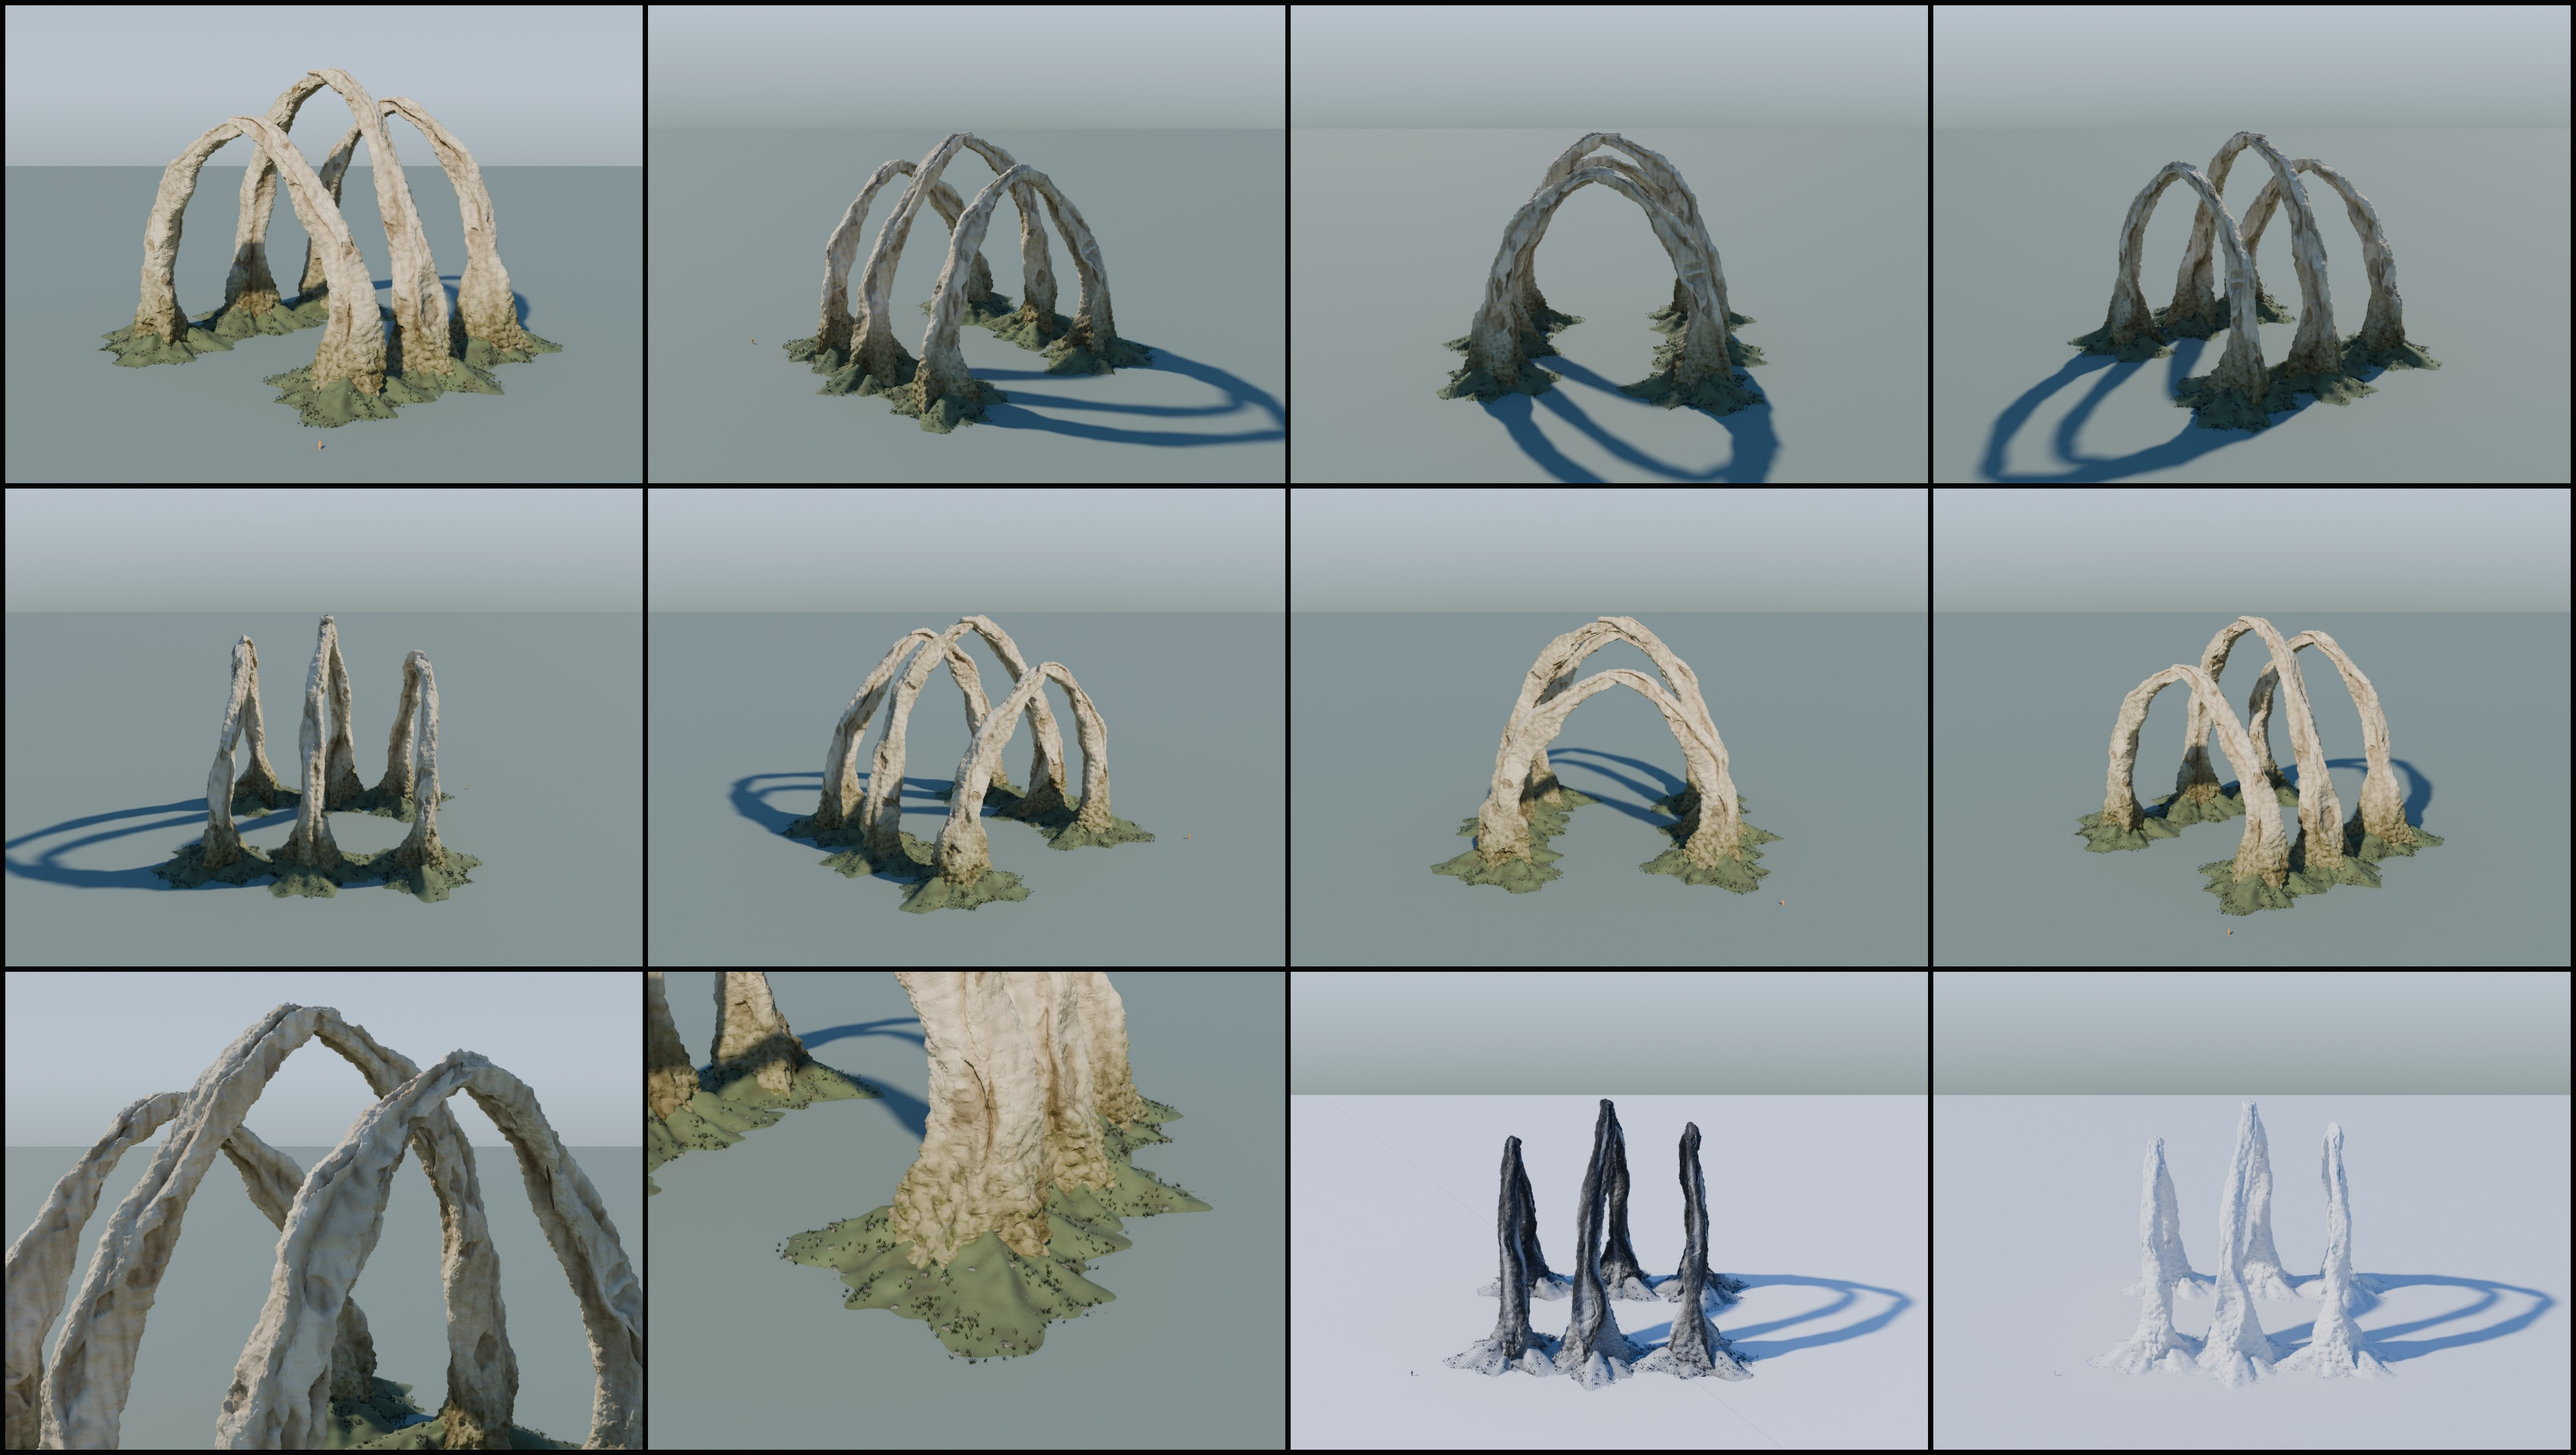
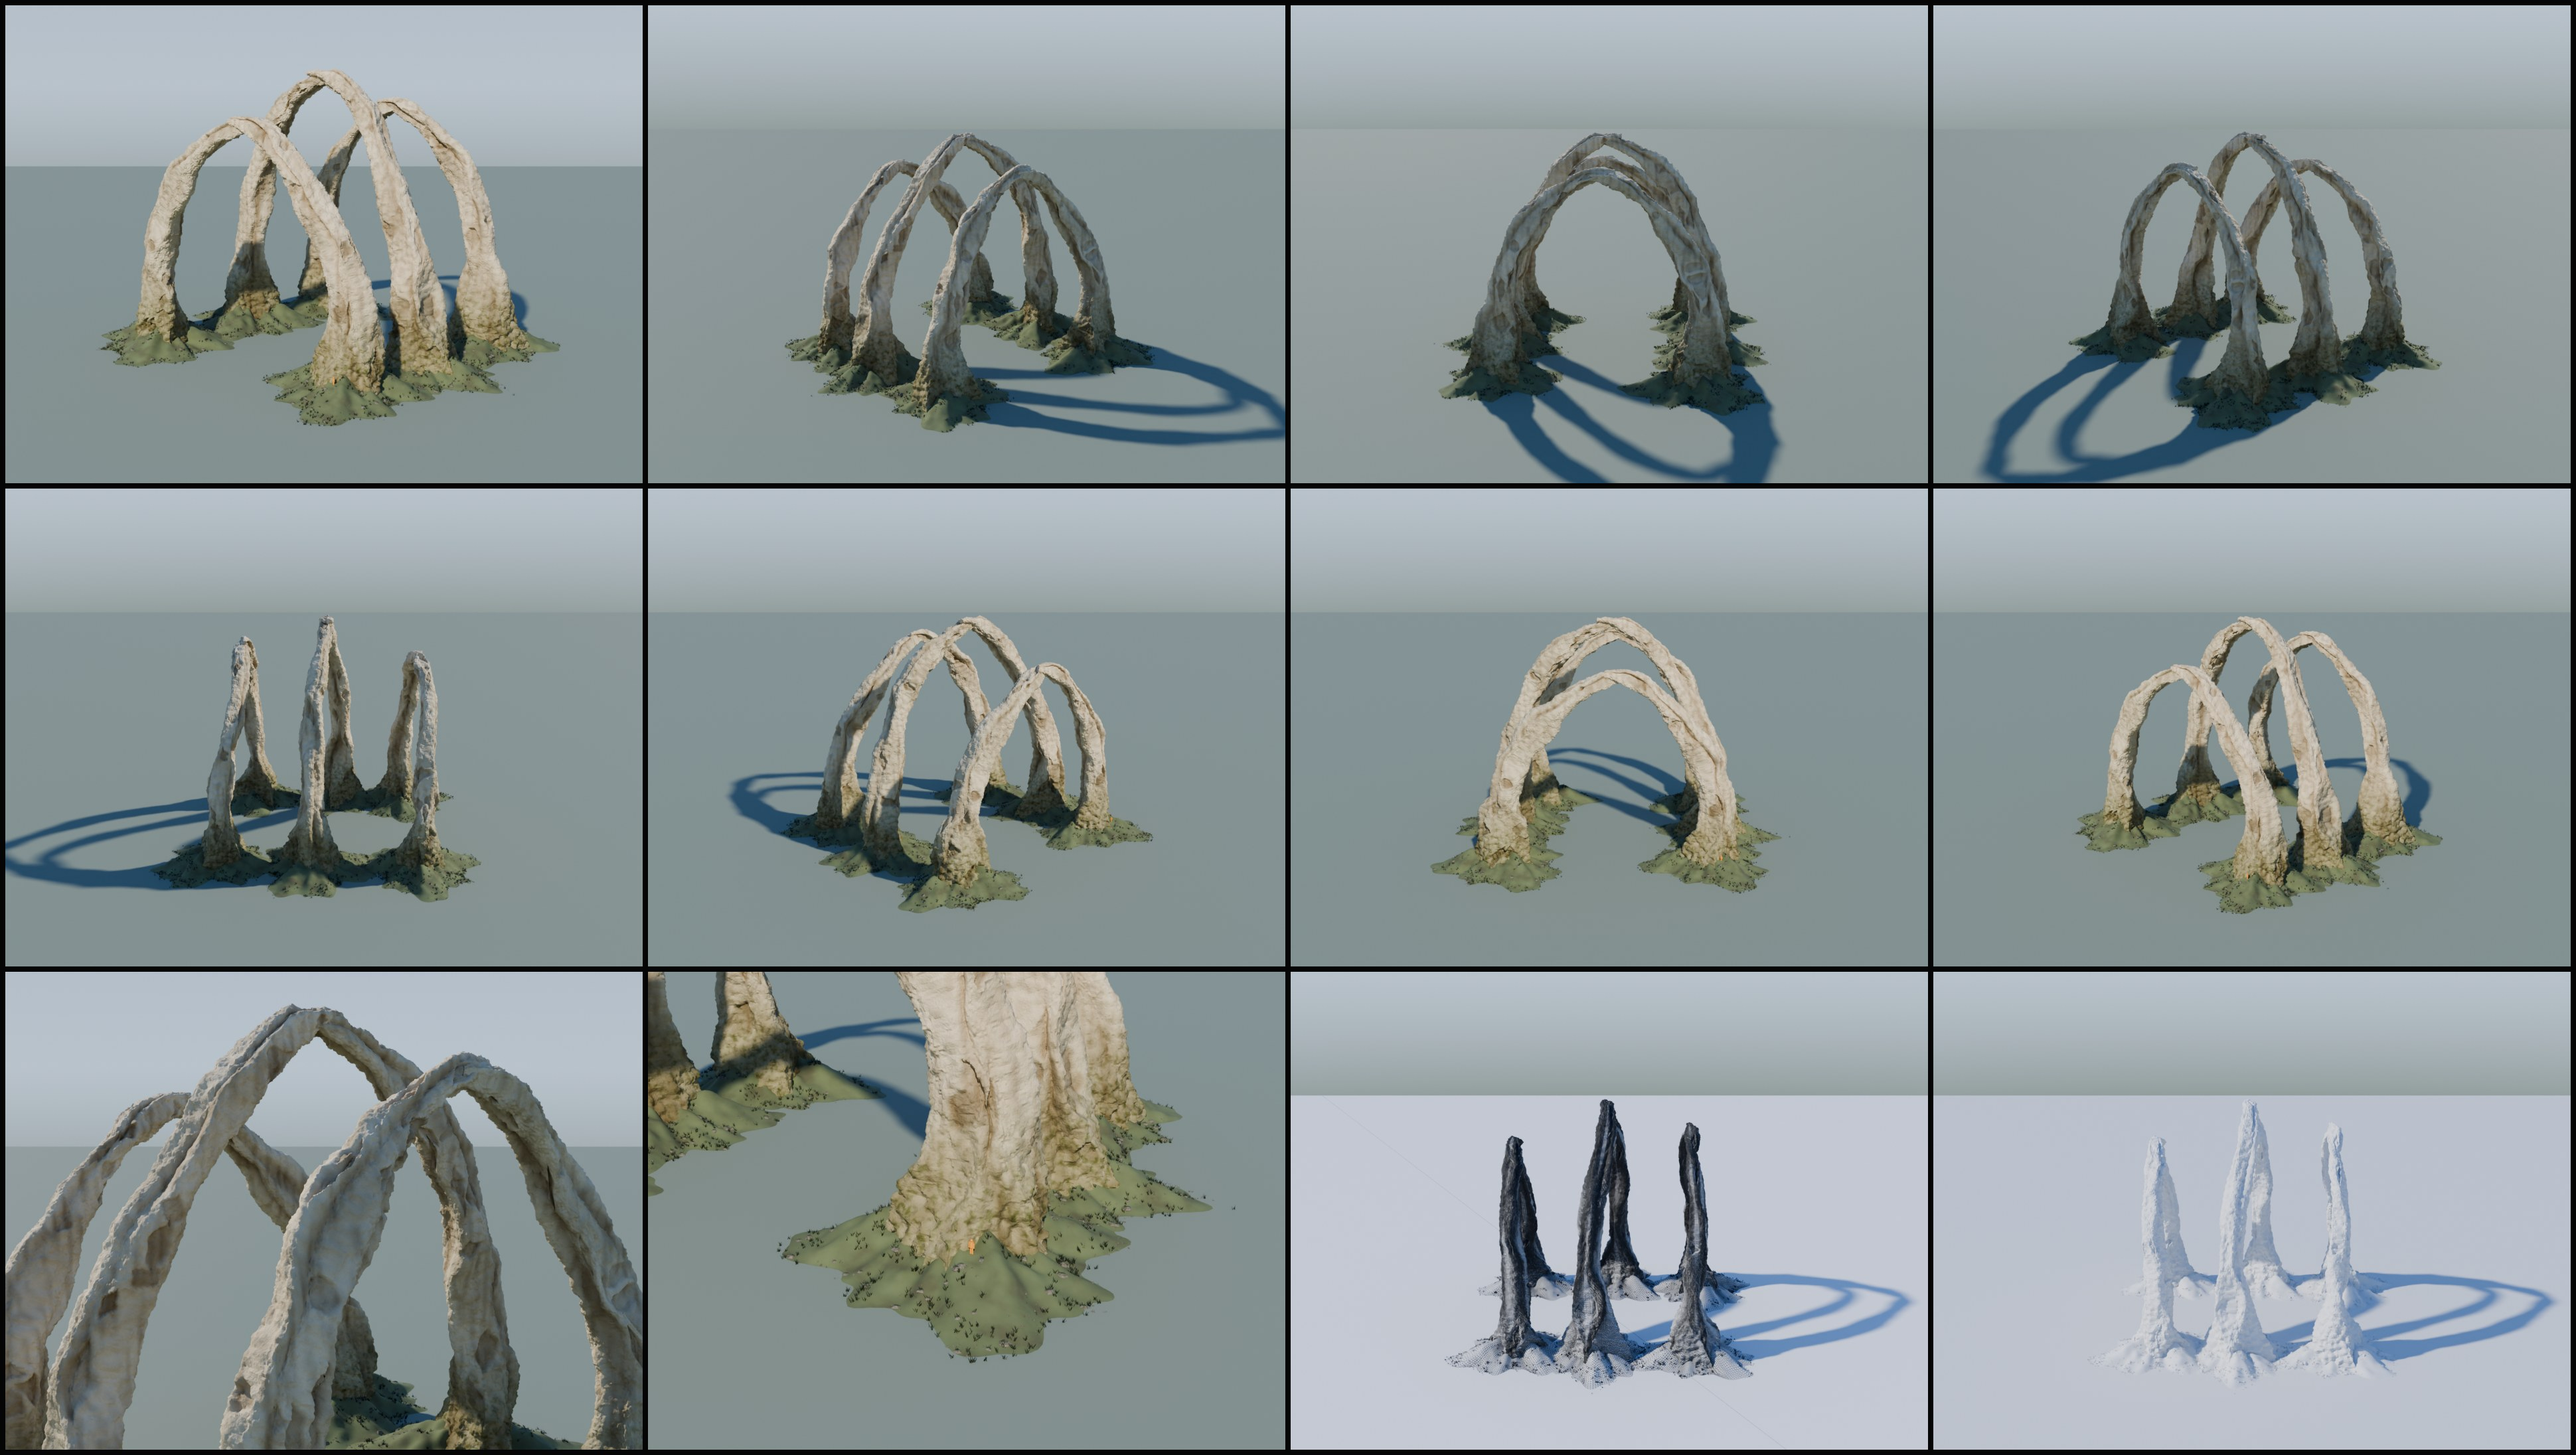
Ground rib scale figure on the foreground turf

diff --git a/assets/monuments/rib_arch_a/build.py b/assets/monuments/rib_arch_a/build.py
@@ -316,8 +316,8 @@ def apron(x, y, ax, ay, turf, root, rng):
     faces = [tuple(range(n))]
     faces.extend((i*n+j, (i+1)*n+j, (i+1)*n+(j+1)%n, i*n+(j+1)%n)
                  for i in range(len(rings)-1) for j in range(n))
-    mesh("Irregular root soil and turf", [p for row in rings for p in row], faces, turf,
-         solid=False, smooth=True)
+    ground = mesh("Irregular root soil and turf", [p for row in rings for p in row], faces, turf,
+                  solid=False, smooth=True)
     tree = BVHTree.FromPolygons([v.co for v in root.data.vertices],
                                 [p.vertices for p in root.data.polygons])
     rubble = vrmat.get("mossy_rock")
@@ -353,6 +353,7 @@ def apron(x, y, ax, ay, turf, root, rng):
     for (blades,faces), name, mat in zip(plants, ("Feathered bank grass","Moss on damp ledges"),
                                         ("foliage_leaf","mossy_rock")):
         mesh(name, blades, faces, vrmat.get(mat), solid=False)
+    return ground
 
 
 def center_footprint(objects):
@@ -383,16 +384,22 @@ def build():
             root = limb(part,spine,rng.uniform(6.25,7.15),rng.uniform(4.1,4.85),
                         stone,rng,side,broken=(i,j) in ((0,1),(2,0)))
             ground_rng = random.Random(15427+53*i+j)
-            apron(x,y,ground_rng.uniform(18.8,21.0),ground_rng.uniform(17.3,19.7),turf,root,ground_rng)
+            ground = apron(x,y,ground_rng.uniform(18.8,21.0),ground_rng.uniform(17.3,19.7),
+                           turf,root,ground_rng)
             if i == 0 and j == 1:
                 foreground = Vector((-y,x,0))
+                foreground_ground = ground
     rotation = Matrix.Rotation(math.radians(-74),4,"Z")
     objects = vrlib.source_objects()
     for obj in objects:
         obj.data.transform(rotation)
     shift = center_footprint(objects)
     foot = shift @ rotation @ foreground
-    figure = foot+Vector((27,-22,0))
-    bpy.context.scene["vr_review_figure"] = (figure.x,figure.y)
+    figure_ray = foot+Vector((5.14,-6.13,20))
+    hit, figure, _, _ = foreground_ground.ray_cast(figure_ray,(0,0,-1))
+    if not hit:
+        raise RuntimeError("Review figure position misses the foreground turf")
+    bpy.context.scene["vr_review_figure"] = tuple(figure)
+    bpy.context.scene["vr_review_figure_base"] = True
     bpy.context.scene["vr_review_hero"] = (-29,9,.81,-10)
     bpy.context.scene["vr_review_base"] = (*foot.xy,6.5,-54,23,.34)

diff --git a/tools/blender/render_sheet.py b/tools/blender/render_sheet.py
@@ -80,19 +80,20 @@ def studio():
     b.inputs["Roughness"].default_value = 0.9
     ground.data.materials.append(gmat)
 
-    figure_xy = scene.get("vr_review_figure", (centre.x, hi.y + 0.5))
+    figure_xyz = scene.get("vr_review_figure", (centre.x, hi.y + 0.5, 0))
+    x, y = figure_xyz[:2]
+    ground_z = figure_xyz[2] if len(figure_xyz) == 3 else 0
     objects = []
     if "vr_review_figure" in scene:
-        x, y = figure_xy
         for dx, dy, z, girth, depth in ((0,0,1.14,.24,.69),(-.12,0,.39,.095,.76),
                                          (.12,0,.39,.095,.76),(-.31,0,1.07,.085,.64),
                                          (.31,0,1.05,.085,.61)):
-            bpy.ops.mesh.primitive_cylinder_add(radius=girth, depth=depth, location=(x+dx,y+dy,z))
+            bpy.ops.mesh.primitive_cylinder_add(radius=girth, depth=depth, location=(x+dx,y+dy,ground_z+z))
             objects.append(bpy.context.object)
     else:
-        bpy.ops.mesh.primitive_cylinder_add(radius=0.22, depth=1.5, location=(*figure_xy, 0.75))
+        bpy.ops.mesh.primitive_cylinder_add(radius=0.22, depth=1.5, location=(x, y, 0.75))
         objects.append(bpy.context.object)
-    bpy.ops.mesh.primitive_uv_sphere_add(radius=0.15, location=(*figure_xy, 1.65))
+    bpy.ops.mesh.primitive_uv_sphere_add(radius=0.15, location=(x, y, ground_z+1.65))
     objects.append(bpy.context.object)
     fmat = bpy.data.materials.new("vr_figure")
     fmat.use_nodes = True
@@ -161,8 +162,9 @@ if draft:
 started = time.time()
 tiles = []
 for name, az, el, target, dist in views:
+    show_base_figure = name == "closeup_base" and scene.get("vr_review_figure_base", False)
     for o in figure:
-        o.hide_render = name.startswith("closeup")
+        o.hide_render = name.startswith("closeup") and not show_base_figure
     aim(az, el, target, dist)
     scene.render.filepath = os.path.join(tmp_dir, name + ".png")
     bpy.ops.render.render(write_still=True)
